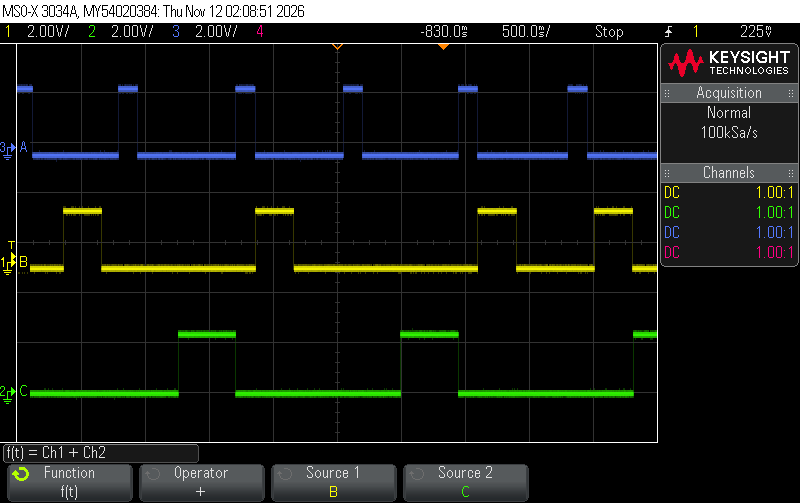
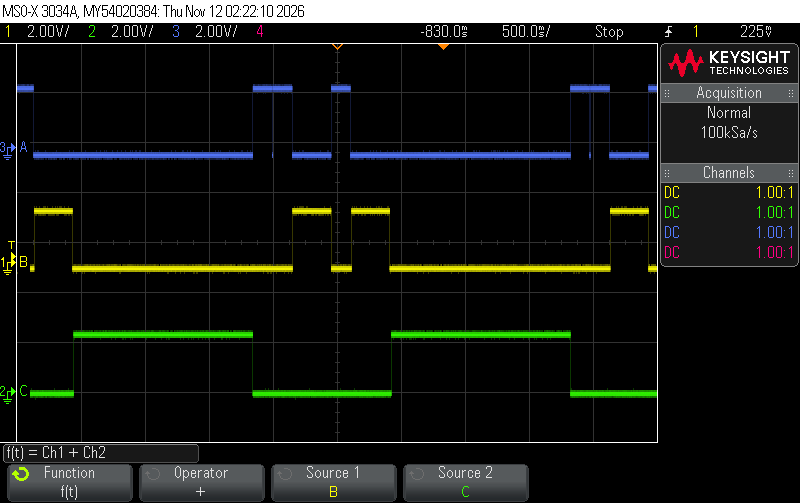
image

diff --git a/README.md b/README.md
@@ -5,7 +5,13 @@
 * GitHub Repository URL: 
 * Description of hardware: (embedded hardware, laptop, etc) 
 
+The hardware setup includes an ATmega328PB microcontroller, three LEDs with current-limiting resistors, a laptop running MPLAB X IDE, and a Keysight oscilloscope to measure the output signals.
 
+PB0 → Task A (Blue / CH3): 150 ms ON, 750 ms period.
+
+PB1 → Task B (Yellow / CH1): 300 ms ON, 1200 ms period.
+
+PB2 → Task C (Green / CH2): 450 ms ON, 1500 ms period.
 
 
 
@@ -44,7 +50,8 @@ All tasks meet their deadlines. The original task set is schedulable under RMS, 
 
 I1:
 ![I1](images\I1.png)
-
+The oscilloscope shows that Task A, B, and C have different pulse widths and periods, approximately following the expected RMS scheduling behavior. Some HIGH pulses overlap, which is expected in the preemptive implementation because tasks release the CPU during vTaskDelay(). Small timing differences may result from the FreeRTOS tick resolution, watchdog timer accuracy, and task scheduling delays.
 
 I2: 
 ![I2](images\I2.png)
+The oscilloscope shows the output signals of Task A (blue), Task B (yellow), and Task C (green). The HIGH pulses do not overlap, indicating that only one task executes at a time, as expected in the RMS blocking implementation. Some timing differences occur because tasks must wait for other tasks to finish before executing.
